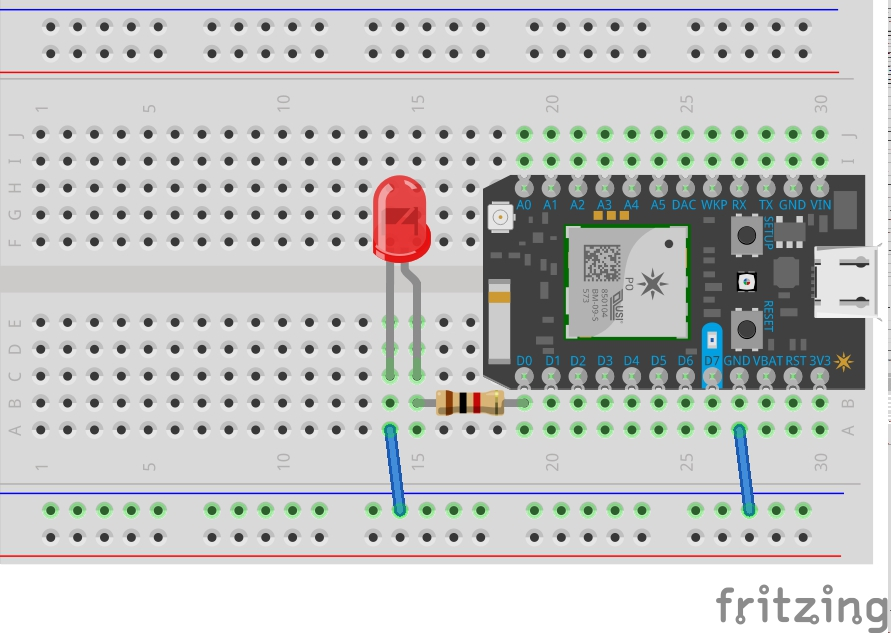
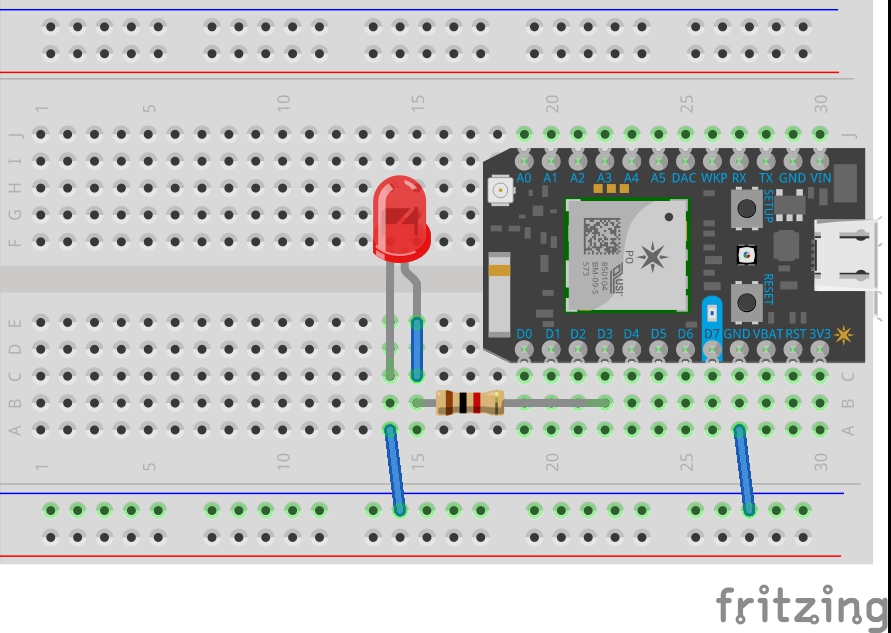
Step 1 updated

Changed region(s): [[0.5152, 0.0, 1.0, 1.0], [0.4545, 0.4803, 0.4848, 0.6003]]

diff --git a/step1/README.md b/step1/README.md
@@ -6,7 +6,7 @@
 First things first, we'll make the circuit that our Photon will control!
 
 - __Add an LED (long leg closest to the pin)__
-- __Add a 1KOhm resistor to connect it to `D0`__
+- __Add a 1KOhm resistor to connect it to `D3`__
 - __Complete the circuit to ground__
 
 ![Basic LED circuit](BasicLed_bb.jpg)
@@ -20,11 +20,11 @@ First connect a 1K Ohm resistor (brown,black red)
 - The other end can go to any other row on the breadboard. 
 
 Next add an LED with the anode (longer leg) to the same row where the resistor connects. 
-The pin at `D0` will provide power when it is turned on.
+The pin at `D3` will provide power when it is turned on.
 
 Next we need to connect the cathode to ground. Use your jumper wires to make a connection to the negative column of the power rail (marked in with the blue line)
 
-Finally, near the `GND` pin use another jumper cable to connect it to the power rail as shown. Now we have a _complete circuit_ where power from Pin `D0` will always flow to ground.
+Finally, near the `GND` pin use another jumper cable to connect it to the power rail as shown. Now we have a _complete circuit_ where power from Pin `D3` will always flow to ground.
 
 ## Getting Ready to Program
 
@@ -82,7 +82,7 @@ Before we do that, let’s explore what’s happening here line by line.
 
 The first line of our program is the following.
 
-```int ledPin = D0;```
+```int ledPin = D3;```
 We have declared a variable of type `integer` and called it `ledPin`; that means that the variable called ledPin can only hold a whole number.
 
 We’ve also assigned this variable a reference to pin `D0`. Basically, we’ve created a variable we can use to tell other stuff in the program that we want to do things with Digital Pin Zero.
@@ -104,7 +104,7 @@ Remember that `ledPin` is a variable that maps to the digital pin zero (`D0`).
 
 ### Digital Write
 
-We’re going to use a command called `digitalWrite` to control the pin at `D0`. It’s called a digital pin because its basically like binary, its either a 0 or a 1, on or off or in microcontroller speak `HIGH` or `LOW`.
+We’re going to use a command called `digitalWrite` to control the pin at `D3`. It’s called a digital pin because its basically like binary, its either a 0 or a 1, on or off or in microcontroller speak `HIGH` or `LOW`.
 
 A pin is basically like a faucet. Its connected to power from the USB that we plug in. This is like a pump. When can turn the faucet (pin) on, water (electricity) will flow out down the pipes (or wires). When you turn the faucet off, the flow stops. Simple.
 
